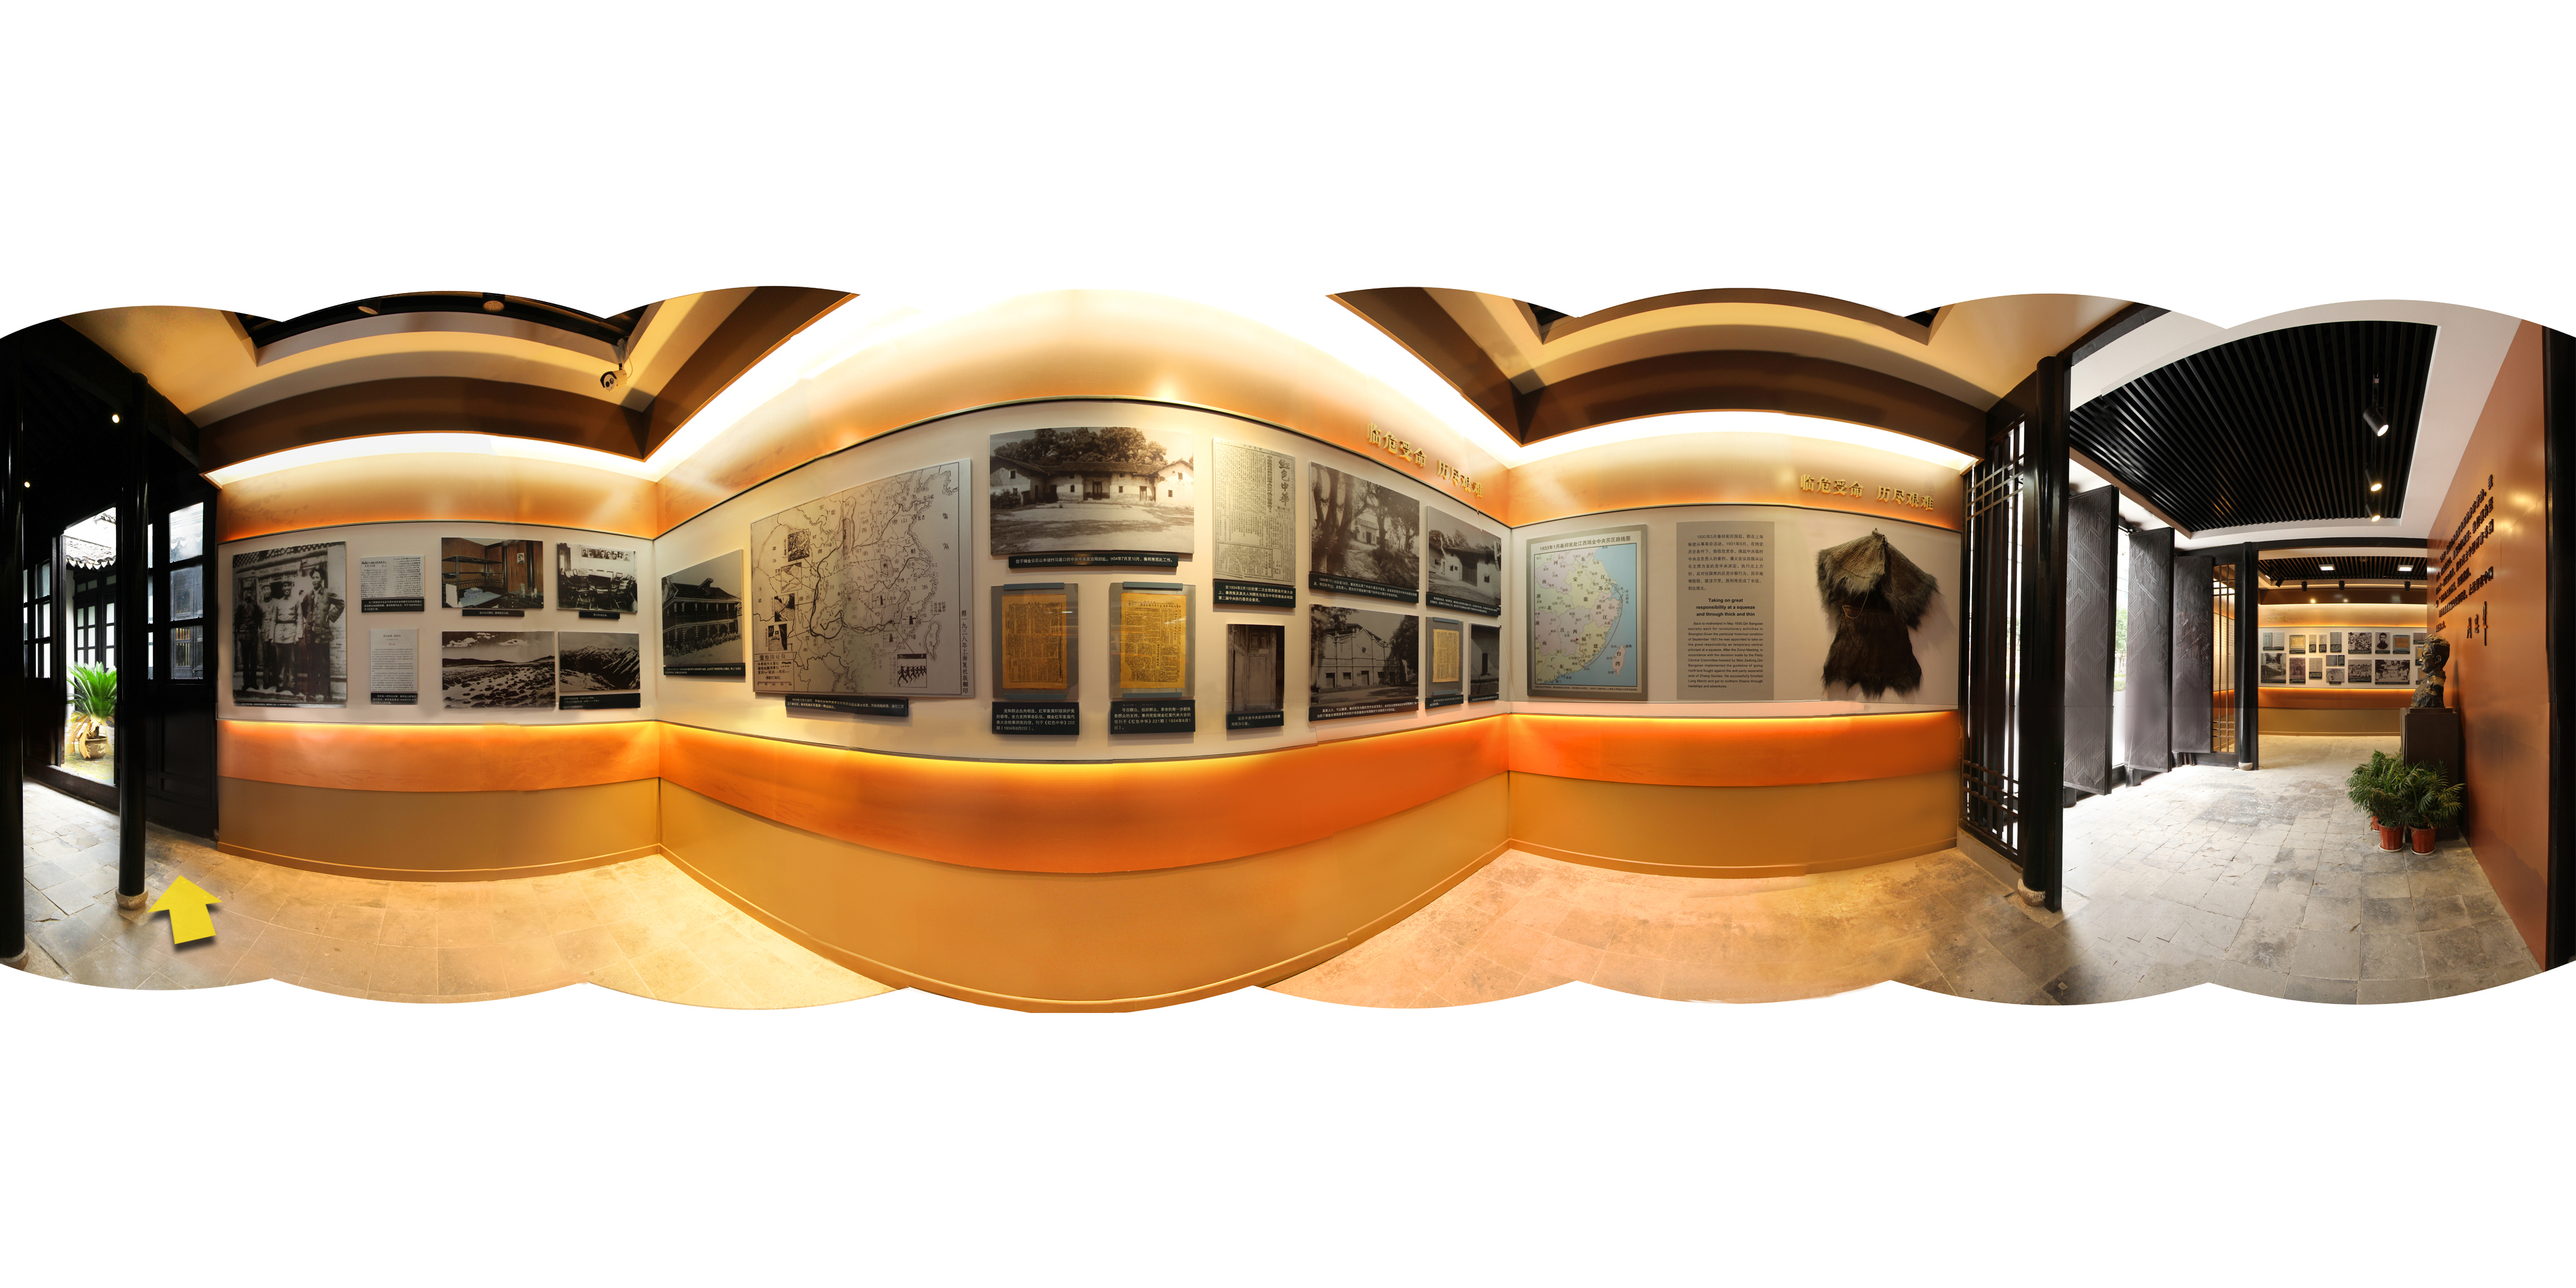
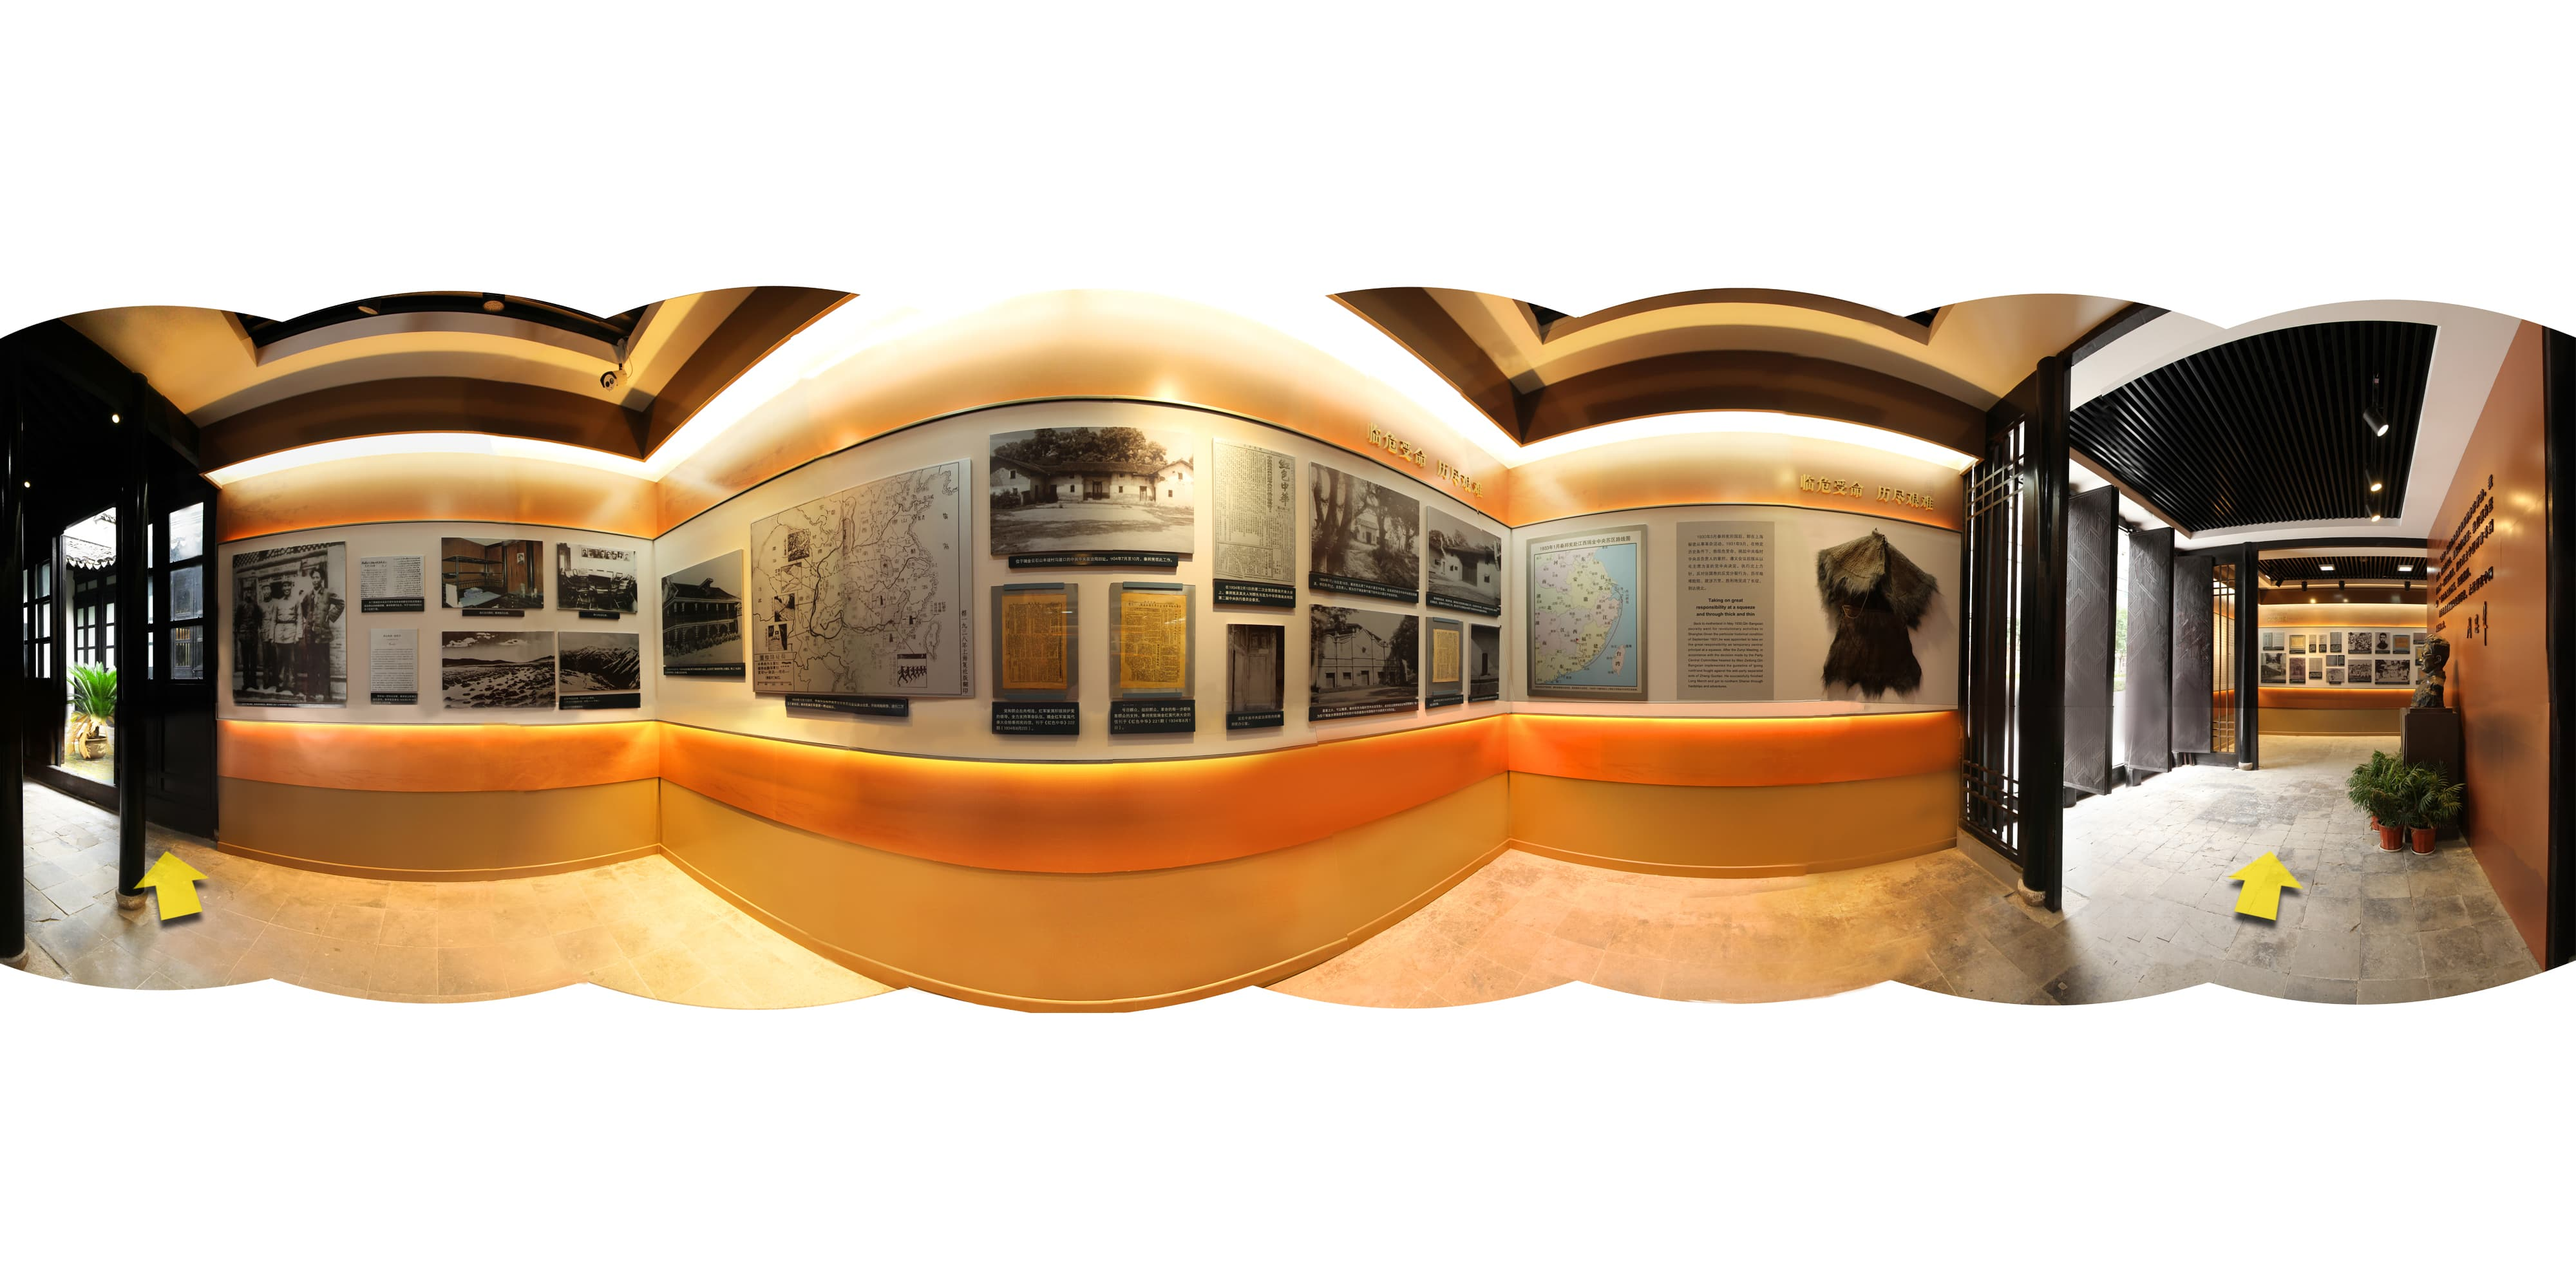
hotpot

Changed region(s): [[0.0312, 0.651, 0.0938, 0.744], [0.8438, 0.651, 0.9062, 0.713]]

diff --git a/js/data.js b/js/data.js
@@ -11,25 +11,24 @@ var jump = [
   [
     {
       plane: (function() {
-        let plane = new THREE.Mesh(new THREE.PlaneGeometry(57, 90, 1, 1), new THREE.MeshBasicMaterial({color: 0x000}))
-        plane.position.x = -369
-        plane.position.z = 287
-        plane.position.y = -219
+        let plane = new THREE.Mesh(new THREE.PlaneGeometry(80, 80, 1, 1), new THREE.MeshBasicMaterial({color: 0x000}))
+        plane.position.x = 79
+        plane.position.z = 467
+        plane.position.y = -279
         plane.rotation.y = 75
         plane.rotation.x = -27
         return plane
       })(),
       jumpto: 1
-    }
-  ],
-  [
-    {
+    }, {
       plane: (function() {
-        let plane = new THREE.Mesh(new THREE.PlaneGeometry(140, 250, 1, 1), new THREE.MeshBasicMaterial({color: 0x000}))
-        plane.position.x = -350
-        plane.position.z = 420
-        plane.position.y = -25
-        plane.rotation.y = 40
+        let plane = new THREE.Mesh(new THREE.PlaneGeometry(80, 80, 1, 1), new THREE.MeshBasicMaterial({color: 0x000}))
+        plane.position.x = -349
+        plane.position.z = -317
+        plane.position.y = -259
+        plane.rotation.y = 0
+        plane.rotation.x = 0
+        plane.rotation.z = 90
         return plane
       })(),
       jumpto: 2
@@ -39,10 +38,39 @@ var jump = [
     {
       plane: (function() {
         let plane = new THREE.Mesh(new THREE.PlaneGeometry(140, 250, 1, 1), new THREE.MeshBasicMaterial({color: 0x000}))
-        plane.position.x = -350
-        plane.position.z = 420
-        plane.position.y = -25
-        plane.rotation.y = 40
+        plane.position.x = 390
+        plane.position.z = -290
+        plane.position.y = -360
+        plane.rotation.y = 75
+        plane.rotation.x = -27
+        plane.rotation.z = 90
+        return plane
+      })(),
+      jumpto: 0
+    }
+  ],
+  [
+    {
+      plane: (function() {
+        let plane = new THREE.Mesh(new THREE.PlaneGeometry(140, 250, 1, 1), new THREE.MeshBasicMaterial({color: 0x000}))
+        plane.position.x = 390
+        plane.position.z = -320
+        plane.position.y = -360
+        plane.rotation.y = 75
+        plane.rotation.x = -27
+        plane.rotation.z = 90
+        return plane
+      })(),
+      jumpto: 0
+    }, {
+      plane: (function() {
+        let plane = new THREE.Mesh(new THREE.PlaneGeometry(140, 250, 1, 1), new THREE.MeshBasicMaterial({color: 0x000}))
+        plane.position.x = 550
+        plane.position.z = 220
+        plane.position.y = -400
+        plane.rotation.y = 75
+        plane.rotation.x = -27
+        plane.rotation.z = 90
         return plane
       })(),
       jumpto: 3
@@ -52,13 +80,15 @@ var jump = [
     {
       plane: (function() {
         let plane = new THREE.Mesh(new THREE.PlaneGeometry(140, 250, 1, 1), new THREE.MeshBasicMaterial({color: 0x000}))
-        plane.position.x = -350
-        plane.position.z = 420
-        plane.position.y = -25
-        plane.rotation.y = 40
+        plane.position.x = 300
+        plane.position.z = -200
+        plane.position.y = -300
+        plane.rotation.y = 75
+        plane.rotation.x = -27
+        plane.rotation.z = 90
         return plane
       })(),
-      jumpto: 4
+      jumpto: 2
     }
   ],
   [],
@@ -68,9 +98,11 @@ var jump = [
   [],
   [],
   [],
+  [],
+  [],
   []
 ]
-for (var i = 0; i < 12; i++) {
+for (var i = 0; i < 14; i++) {
   data.push({
     path: './imgs/' + (i + 1) + '.jpg',
     des: des[i],

diff --git a/js/render.js b/js/render.js
@@ -202,7 +202,8 @@ function render() {
     currentScene = controller.getCurrentScene();
     console.log(currentScene)
     cachedLoad(currentScene, texCb)
-
+    lon = 0
+    lat = 0
   }
   renderer.render(scene, camera);
 }
